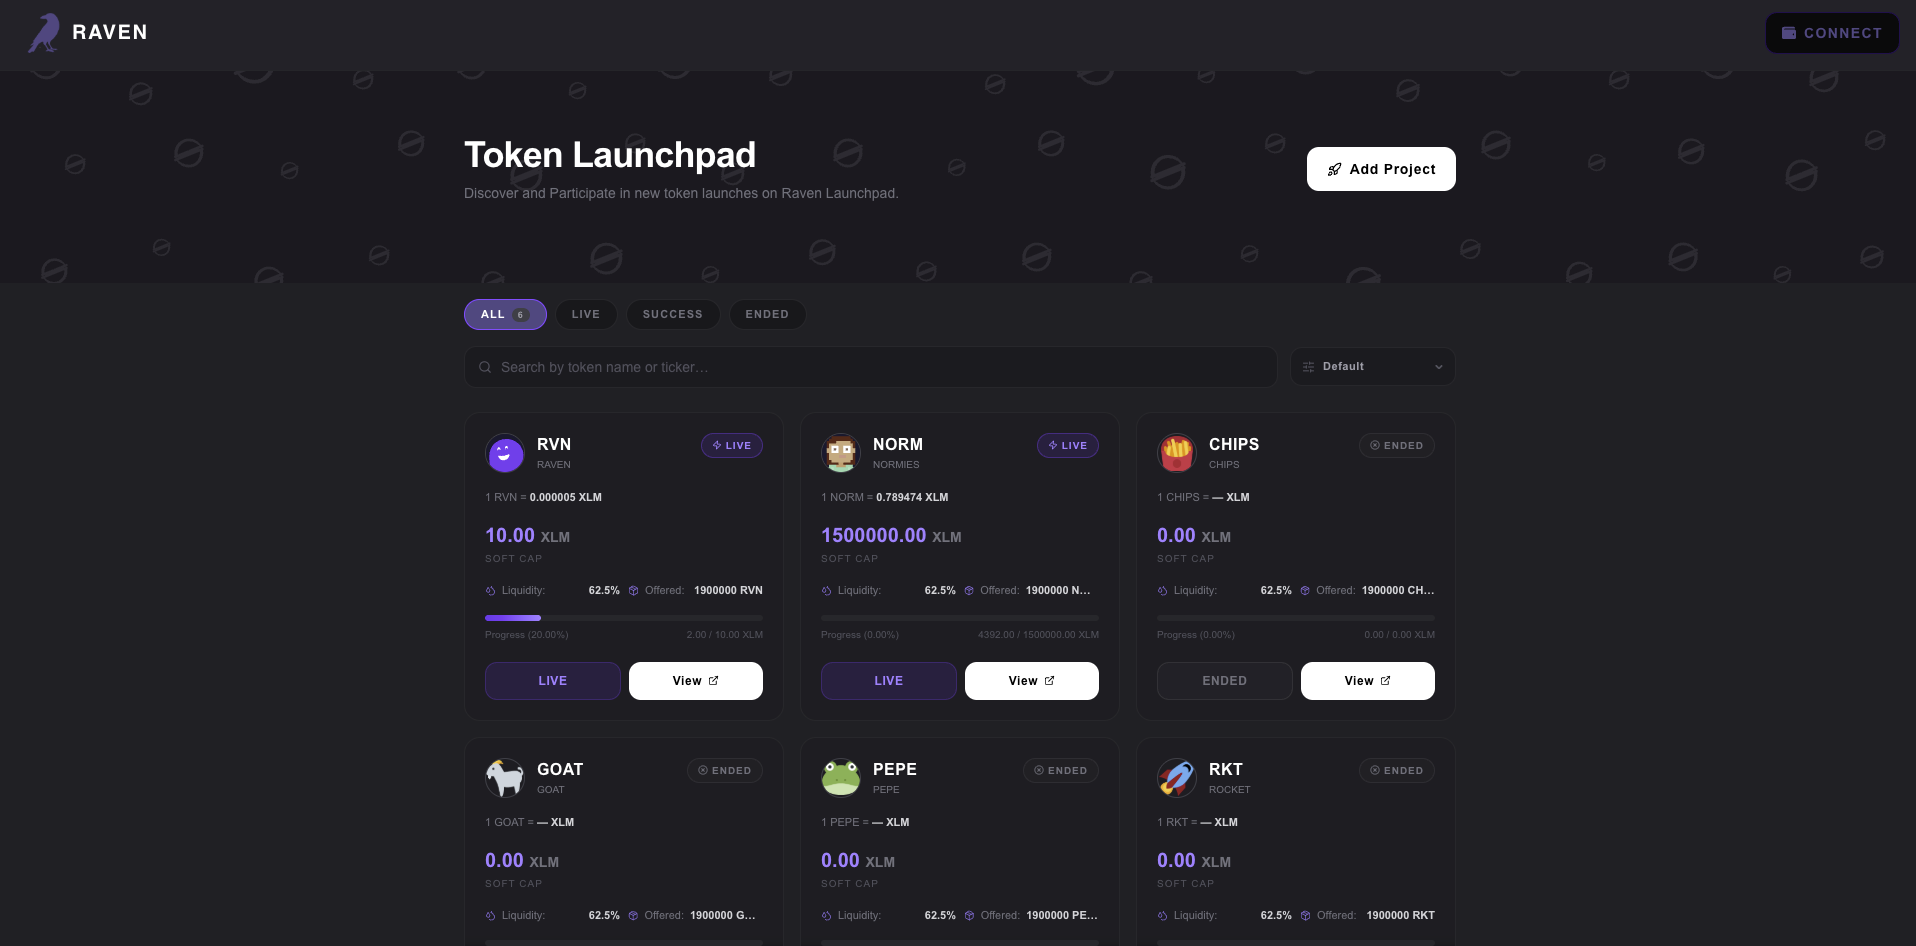
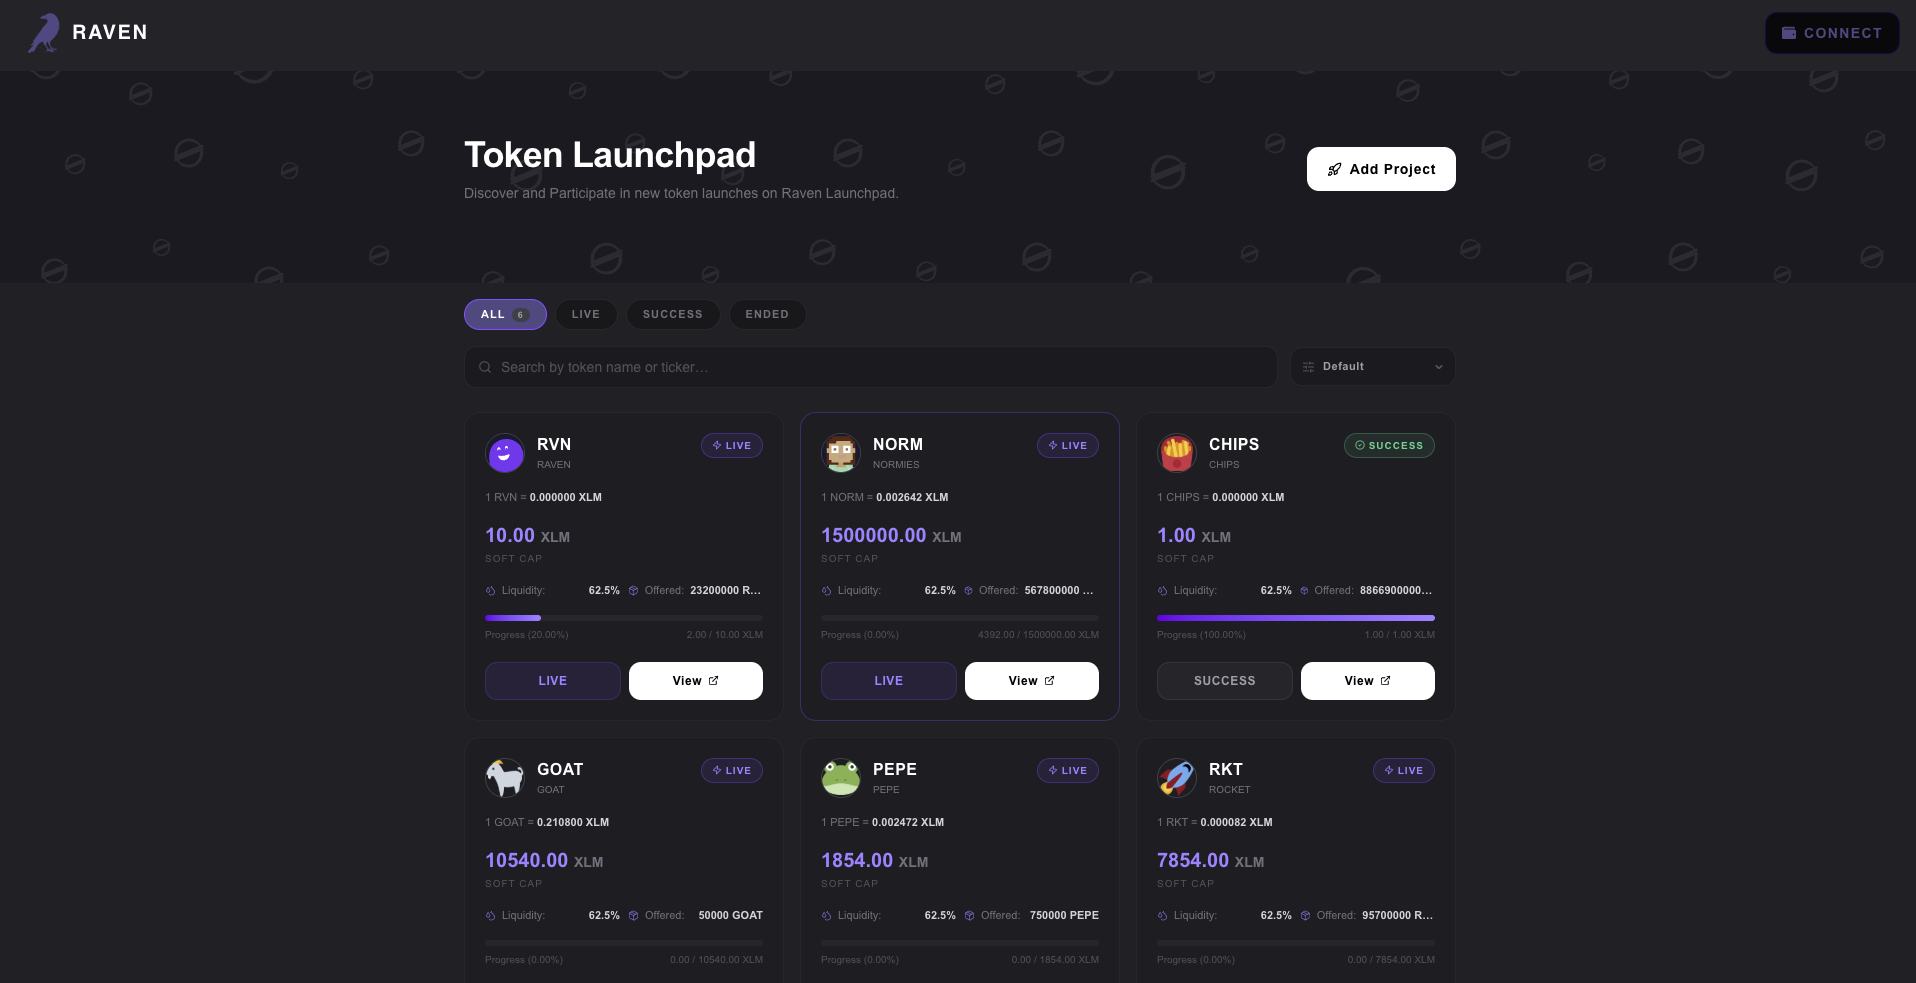
docs: README update with demo video link and testnet CAs

diff --git a/app/lib/launches.ts b/app/lib/launches.ts
@@ -7,7 +7,7 @@ export const LAUNCHES = [
       tokenId: "CAKYJF4FRQMF3VS43THFNXB3RWCOHOXUEQE6JRCTEBRRLBD2I5CR23PB",
       softCap: 1000,
       liquidity: 62.5,
-      offered: "1900000 RVN",
+      offered: "23200000 RVN",
       icon: "https://api.dicebear.com/7.x/thumbs/svg?seed=RAVEN&backgroundColor=1a1a2e&shapeColor=7c3aed",
     },
     {
@@ -18,51 +18,51 @@ export const LAUNCHES = [
       tokenId: "CACCNZESK5YAQYYN5NLZLBEJNNPTTNN3H5YK6ICWXEL65UVLGVHNP534",
       softCap: 50000,
       liquidity: 62.5,
-      offered: "1900000 NORM",
+      offered: "567800000 NORM",
       icon: "https://api.dicebear.com/7.x/pixel-art/svg?seed=NORMIES&backgroundColor=1a1a2e&clothing=variant01&accessories=variant01",
     },
     {
       id: "launch-3",
       name: "CHIPS",
       ticker: "CHIPS",
-      launchpadId: "",
-      tokenId: "",
+      launchpadId: "CD6Z2V73CB5XE7WFXWLINLNL5P6A6HRJHXLJMUP4EP46RI7PMX57OFZR",
+      tokenId: "CBA5VCHI6NCZ7TSHWYB33F2DREB2FQ4TTYJWHSBQ6LCNUDQYA3R5TUC3",
       softCap: 1000,
       liquidity: 62.5,
-      offered: "1900000 CHIPS",
+      offered: "8866900000 CHIPS",
       icon: "https://emojicdn.elk.sh/🍟?style=twitter",
     },
     {
       id: "launch-4",
       name: "GOAT",
       ticker: "GOAT",
-      launchpadId: "",
-      tokenId: "",
+      launchpadId: "CCA3OANHQFHR72S6IC4JDK66NAXLXONFIZLYUUPX23RNDU5FRSXTQGWU",
+      tokenId: "CDNY3EF3MP5GR6VMXUYLHB7RGZ75M5C2RWD77TQONVOAVC4P57BTYVGS",
       softCap: 5000,
       liquidity: 62.5,
-      offered: "1900000 GOAT",
+      offered: "50000 GOAT",
       icon: "https://emojicdn.elk.sh/🐐?style=twitter",
     },
     {
       id: "launch-5",
       name: "PEPE",
       ticker: "PEPE",
-      launchpadId: "",
-      tokenId: "",
+      launchpadId: "CAIPH3566FKQPLQ74ZNKPNF5O6CP7UC7BJZHPF65AZEOMGO5M4VH6SJ6",
+      tokenId: "CBEZIUGR3NL4BIU32YLTZPW2TVPHT6UGUPX64RJCLNAMGSBFVOUDYV56",
       softCap: 2000,
       liquidity: 62.5,
-      offered: "1900000 PEPE",
+      offered: "750000 PEPE",
       icon: "https://emojicdn.elk.sh/🐸?style=twitter",
     },
     {
       id: "launch-6",
       name: "ROCKET",
       ticker: "RKT",
-      launchpadId: "",
-      tokenId: "",
+      launchpadId: "CB5ILLXVLOXFQK3EDYXJK6SPXZBAHE4JQFIOLEMTQBBUACMIY4FLU4NY",
+      tokenId: "CDWFVNRGEBVI4VLCXNQ6YUVCJ2CNBRA2IJO4HIASILAV5PDRXFCCMUV3",
       softCap: 10000,
       liquidity: 62.5,
-      offered: "1900000 RKT",
+      offered: "95700000 RKT",
       icon: "https://emojicdn.elk.sh/🚀?style=twitter",
     },
   ];

diff --git a/app/launch/[id]/page.tsx b/app/launch/[id]/page.tsx
@@ -612,7 +612,7 @@ export default function LaunchDetailPage() {
                 <div className="flex items-center gap-2">
                   <CheckCircle2 size={16} className="text-emerald-400" />
                   <p className="text-xs font-bold text-emerald-400 uppercase tracking-widest">
-                    Launch Successful — Claim Tokens
+                    Claim Tokens
                   </p>
                 </div>
                 <p className="text-zinc-400 text-sm">
@@ -634,7 +634,7 @@ export default function LaunchDetailPage() {
                     </>
                   ) : (
                     <>
-                      <Coins size={15} /> Claim {myContrib} {launch.ticker}
+                     Claim {myContrib} {launch.ticker}
                     </>
                   )}
                 </button>

diff --git a/README.md b/README.md
@@ -6,8 +6,7 @@ A multi-token launchpad (IDO) built on Stellar/Soroban. Contributors fund raises
 
 > [https://raven-launchpad.vercel.app](https://raven-launchpad.vercel.app)
 
-> 🎥 Demo Video: [Coming Soon](#)
-
+> 🎥 Demo Video: [Watch on YouTube](https://youtu.be/KjZI1uxUs2Y?si=NIVk09Sqj0ErFZl0)
 
 ---
 
@@ -113,10 +112,10 @@ This eliminates the need for users to sign a separate mint approval — the laun
 |---|---|---|---|---|
 | RAVEN | RVN | `CAKYJF4FRQMF3VS43THFNXB3RWCOHOXUEQE6JRCTEBRRLBD2I5CR23PB` | `CCHUVB7C4VB4QT7XCFOQFAJI4GTJNZTZE37GQY5H3UK53EYISSEVWUKH` | 1,000 XLM |
 | NORMIES | NORM | `CACCNZESK5YAQYYN5NLZLBEJNNPTTNN3H5YK6ICWXEL65UVLGVHNP534` | `CDWEL3QFJ52UNTZFQVM3O424VYC63STQPI7OIMNQ6G2DA5CCFJM5X4JT` | 50,000 XLM |
-| CHIPS | CHIPS | TBD | TBD | 1,000 XLM |
-| GOAT | GOAT | TBD | TBD | 5,000 XLM |
-| PEPE | PEPE | TBD | TBD | 2,000 XLM |
-| ROCKET | RKT | TBD | TBD | 10,000 XLM |
+| CHIPS | CHIPS | `CBA5VCHI6NCZ7TSHWYB33F2DREB2FQ4TTYJWHSBQ6LCNUDQYA3R5TUC3` | `CD6Z2V73CB5XE7WFXWLINLNL5P6A6HRJHXLJMUP4EP46RI7PMX57OFZR` | 1,000 XLM |
+| GOAT | GOAT | `CDNY3EF3MP5GR6VMXUYLHB7RGZ75M5C2RWD77TQONVOAVC4P57BTYVGS` | `CCA3OANHQFHR72S6IC4JDK66NAXLXONFIZLYUUPX23RNDU5FRSXTQGWU` | 5,000 XLM |
+| PEPE | PEPE | `CBEZIUGR3NL4BIU32YLTZPW2TVPHT6UGUPX64RJCLNAMGSBFVOUDYV56` | `CAIPH3566FKQPLQ74ZNKPNF5O6CP7UC7BJZHPF65AZEOMGO5M4VH6SJ6` | 2,000 XLM |
+| ROCKET | RKT | `CDWFVNRGEBVI4VLCXNQ6YUVCJ2CNBRA2IJO4HIASILAV5PDRXFCCMUV3` | `CB5ILLXVLOXFQK3EDYXJK6SPXZBAHE4JQFIOLEMTQBBUACMIY4FLU4NY` | 10,000 XLM |
 
 **Funding Token (XLM SAC):** `CDLZFC3SYJYDZT7K67VZ75HPJVIEUVNIXF47ZG2FB2RMQQVU2HHGCYSC`
 
@@ -128,8 +127,8 @@ This eliminates the need for users to sign a separate mint approval — the laun
 
 | | |
 |---|---|
[1 lines of base64/hex data omitted]
-| **Explorer** | [View on Stellar Expert](https://stellar.expert/explorer/testnet/tx/fadc55b6446caddb9aaf53fb0ca81fb0e83dac9be7dc9bf3c0c6978d1027d84f) |
[1 lines of base64/hex data omitted]
+| **Explorer** | [View on Stellar Expert](https://stellar.expert/explorer/testnet/tx/93af8aab7711c65e7272ef2f7f59ab7232f18e3d780e7e524d3c85c7858080c9) |
 | **Action** | Launchpad calls `token.mint()` via `authorize_as_current_contract` |
 
 ---